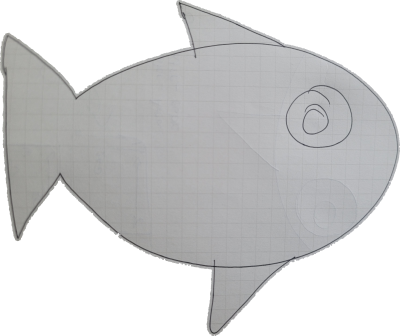
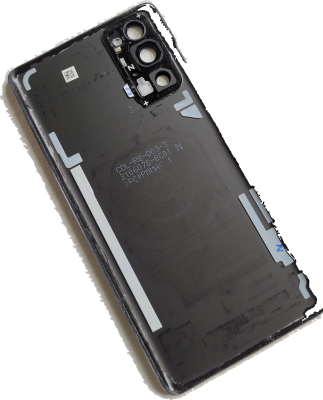
added some fish

diff --git a/frontend/src/Home.jsx b/frontend/src/Home.jsx
@@ -65,14 +65,14 @@ function Home() {
     <div className='text-center md:p-8 p-4 h-screen w-screen text-gray-800'>
       <h1 className='md:text-7xl text-5xl font-bold text-black'>WELCOME TO FISHTOPIA</h1>
       <div className='lg:text-lg md:px-16 px-4 md:py-8 py-4 font-semibold'>
-        Fishtopia is a haven for drawn fish. To join Fishtopia, enter your name, draw a picture of your fish or other aquatic creature on a piece of paper, take a picture and upload it below. Your drawing will be transported to Fishtopia wihere it will join the ranks of other people's drawings
+        Fishtopia is the future. To join Fishtopia, enter your name, draw a picture of your fish or other aquatic creature on a piece of paper, take a picture, and upload it below. Your drawing will be transported to Fishtopia where it will join the ranks of other people's drawings
       </div>
       <div className='text-lg'>
-        <h2 className='text-xl'>Here are some tips for your making your drawing and taking the photo</h2>
+        <h2 className='text-xl'>Here are some tips to help get your fish into Fishtopia</h2>
         <ul className='text-left px-8 py-4'>
           <li>- Make sure your fish is facing right</li>
           <li>- Ensure your drawing is a continuous closed shape. The thicker the outline, the better the extraction will be</li>
-          <li>- Make your drawing on a blank piece of paper with nothing else in frame except for the drawing (Don't include the outline of the paper, etc)</li>
+          <li>- Make your drawing on a blank piece of paper and take a photo with nothing else in frame except for the drawing (Don't include the outline of the paper, etc)</li>
           <li>- Avoid shadows in your picture by taking it next to a bright light source or using flash in dim lighting</li>
           <l1>- If it still isn't working just call Alex</l1>
         </ul>

diff --git a/frontend/src/Customize.jsx b/frontend/src/Customize.jsx
@@ -1,7 +1,6 @@
 import { useLocation, useNavigate } from "react-router"
 import { useState, useEffect } from 'react';
 import "./app.css"
-import "../public/underwater.png"
 
 function App() {
     const { state } = useLocation()
@@ -41,7 +40,7 @@ function App() {
         inputs["speed"] = inputs["speed"] || e.target.speed.value
         inputs["sleeplength"] = inputs["sleeplength"] || e.target.sleeplength.value
         inputs["sleephabits"] = inputs["sleephabits"] || e.target.sleephabits.value
-        inputs["philosophy"] = inputs["philosophy"] || e.target.sleephabits.value
+        inputs["philosophy"] = inputs["philosophy"] || e.target.philosophy.value
 
         const formData = new FormData();
         formData.append("name", name);
@@ -84,7 +83,7 @@ function App() {
         <h1 className="md:p-8 p-4 text-4xl lg:text-6xl font-bold text-center">{state ? name : ""}'s fish</h1>
         <div className="lg:grid lg:grid-cols-2">
             <div className="lg:px-8 px-4">
-                <div className="bg-[url(../public/underwater.PNG)] bg-cover rounded-4xl border-8 border-gray-100 p-16 w-full h-full bg-center">
+                <div className="bg-[url(../underwater.png)] bg-cover rounded-4xl border-8 border-gray-100 p-16 w-full h-full bg-center">
                     <div className="floating place-self-center">
                         <img src={imageUrl}></img>
                     </div>

diff --git a/fishtopia/src/Fish.js b/fishtopia/src/Fish.js
@@ -74,7 +74,7 @@ export class Fish extends Container {
     }
 
     if (this._sleeping) {
-      this.y = this.y + Math.sin(Date.now() / (500 * this.offset)) * 0.4
+      this.y = this.y + Math.sin(Date.now() / (500 * this.offset)) * 0.4 * this._sizeFactor
     } else {
 
       const flip = Math.random()
@@ -85,7 +85,7 @@ export class Fish extends Container {
         this.fishView.scale.x = this.fishView.scale.x * -1
       }
 
-      this.y = this.y + Math.sin(Date.now() / (500 * this.offset)) * 0.4
+      this.y = this.y + Math.sin(Date.now() / (500 * this.offset)) * 0.4 * this._sizeFactor
 
       this.x += this._speed * this._xdirection;
 
